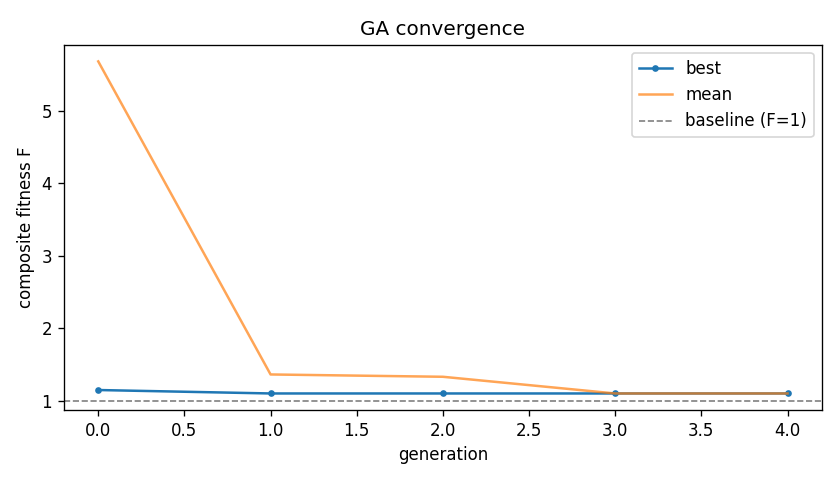
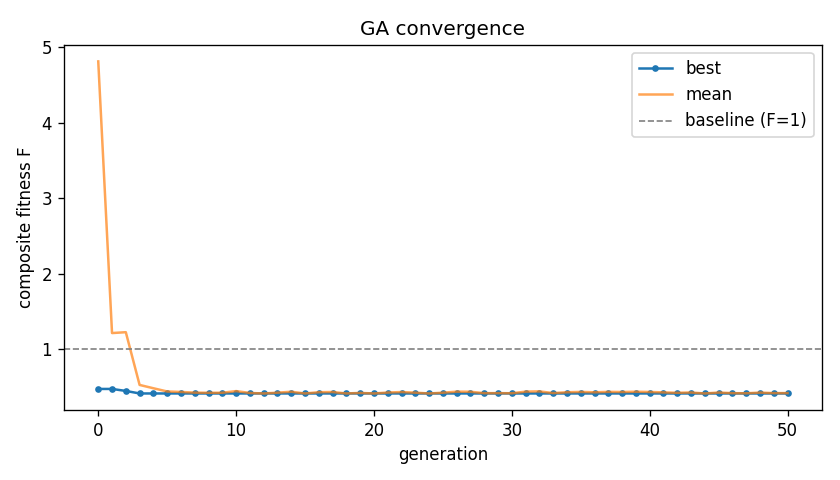
fix: create a custom nudge mutator to avoid wild jumps in uniform integer mutator

diff --git a/ga_optimise.py b/ga_optimise.py
@@ -54,6 +54,25 @@ def _clamp(individual):
     return individual
 
 
+def mutate_timings(individual, min_val, max_val, max_step, indpb):
+    """
+    Nudges timings by a random amount up to max_step, keeping them within min/max bounds.
+    """
+    for i in range(len(individual)):
+        if random.random() < indpb:
+            # Generate a random nudge, e.g., -5, 2, 4
+            step = random.randint(-max_step, max_step)
+            individual[i] += step
+            
+            # Enforce hard boundaries so the simulator doesn't crash
+            if individual[i] < min_val:
+                individual[i] = min_val
+            elif individual[i] > max_val:
+                individual[i] = max_val
+                
+    return (individual,)  # DEAP requires returning a tuple
+
+
 def make_evaluator(base_delay, base_co2, seed=TRAIN_SEED):
     """Return a DEAP evaluate() closure using the given baseline normalisers."""
     def evaluate(individual):
@@ -61,7 +80,7 @@ def make_evaluator(base_delay, base_co2, seed=TRAIN_SEED):
         _eval_counter += 1
         ns, ew = _clamp(individual)
         # debug line
-        print(f"Evaluating plan [{ns},{ew}] (eval {_eval_counter})")
+        # print(f"Evaluating plan [{ns},{ew}] (eval {_eval_counter})")
         m = run_simulation(ns, ew, seed=seed, label=f"ga{_eval_counter}")
         norm_delay = m["waiting_time"] / base_delay
         norm_co2 = m["co2"] / base_co2
@@ -88,7 +107,10 @@ def build_toolbox(evaluate):
 
     # low/up: The bounds for green light timings (e.g., 10s to 60s)
     # indpb: The probability that EACH specific gene (NS or EW) gets mutated
-    toolbox.register("mutate", tools.mutUniformInt, low=10, up=60, indpb=0.5)
+    # toolbox.register("mutate", tools.mutUniformInt, low=10, up=60, indpb=0.5)
+    # Register the custom mutator in your toolbox
+    toolbox.register("mutate", mutate_timings, min_val=10, max_val=60, max_step=5, indpb=0.5)
+
     toolbox.register("select", tools.selTournament, tournsize=3)
     # Keep genes valid after variation.
     toolbox.decorate("mate", _clamp_decorator)
